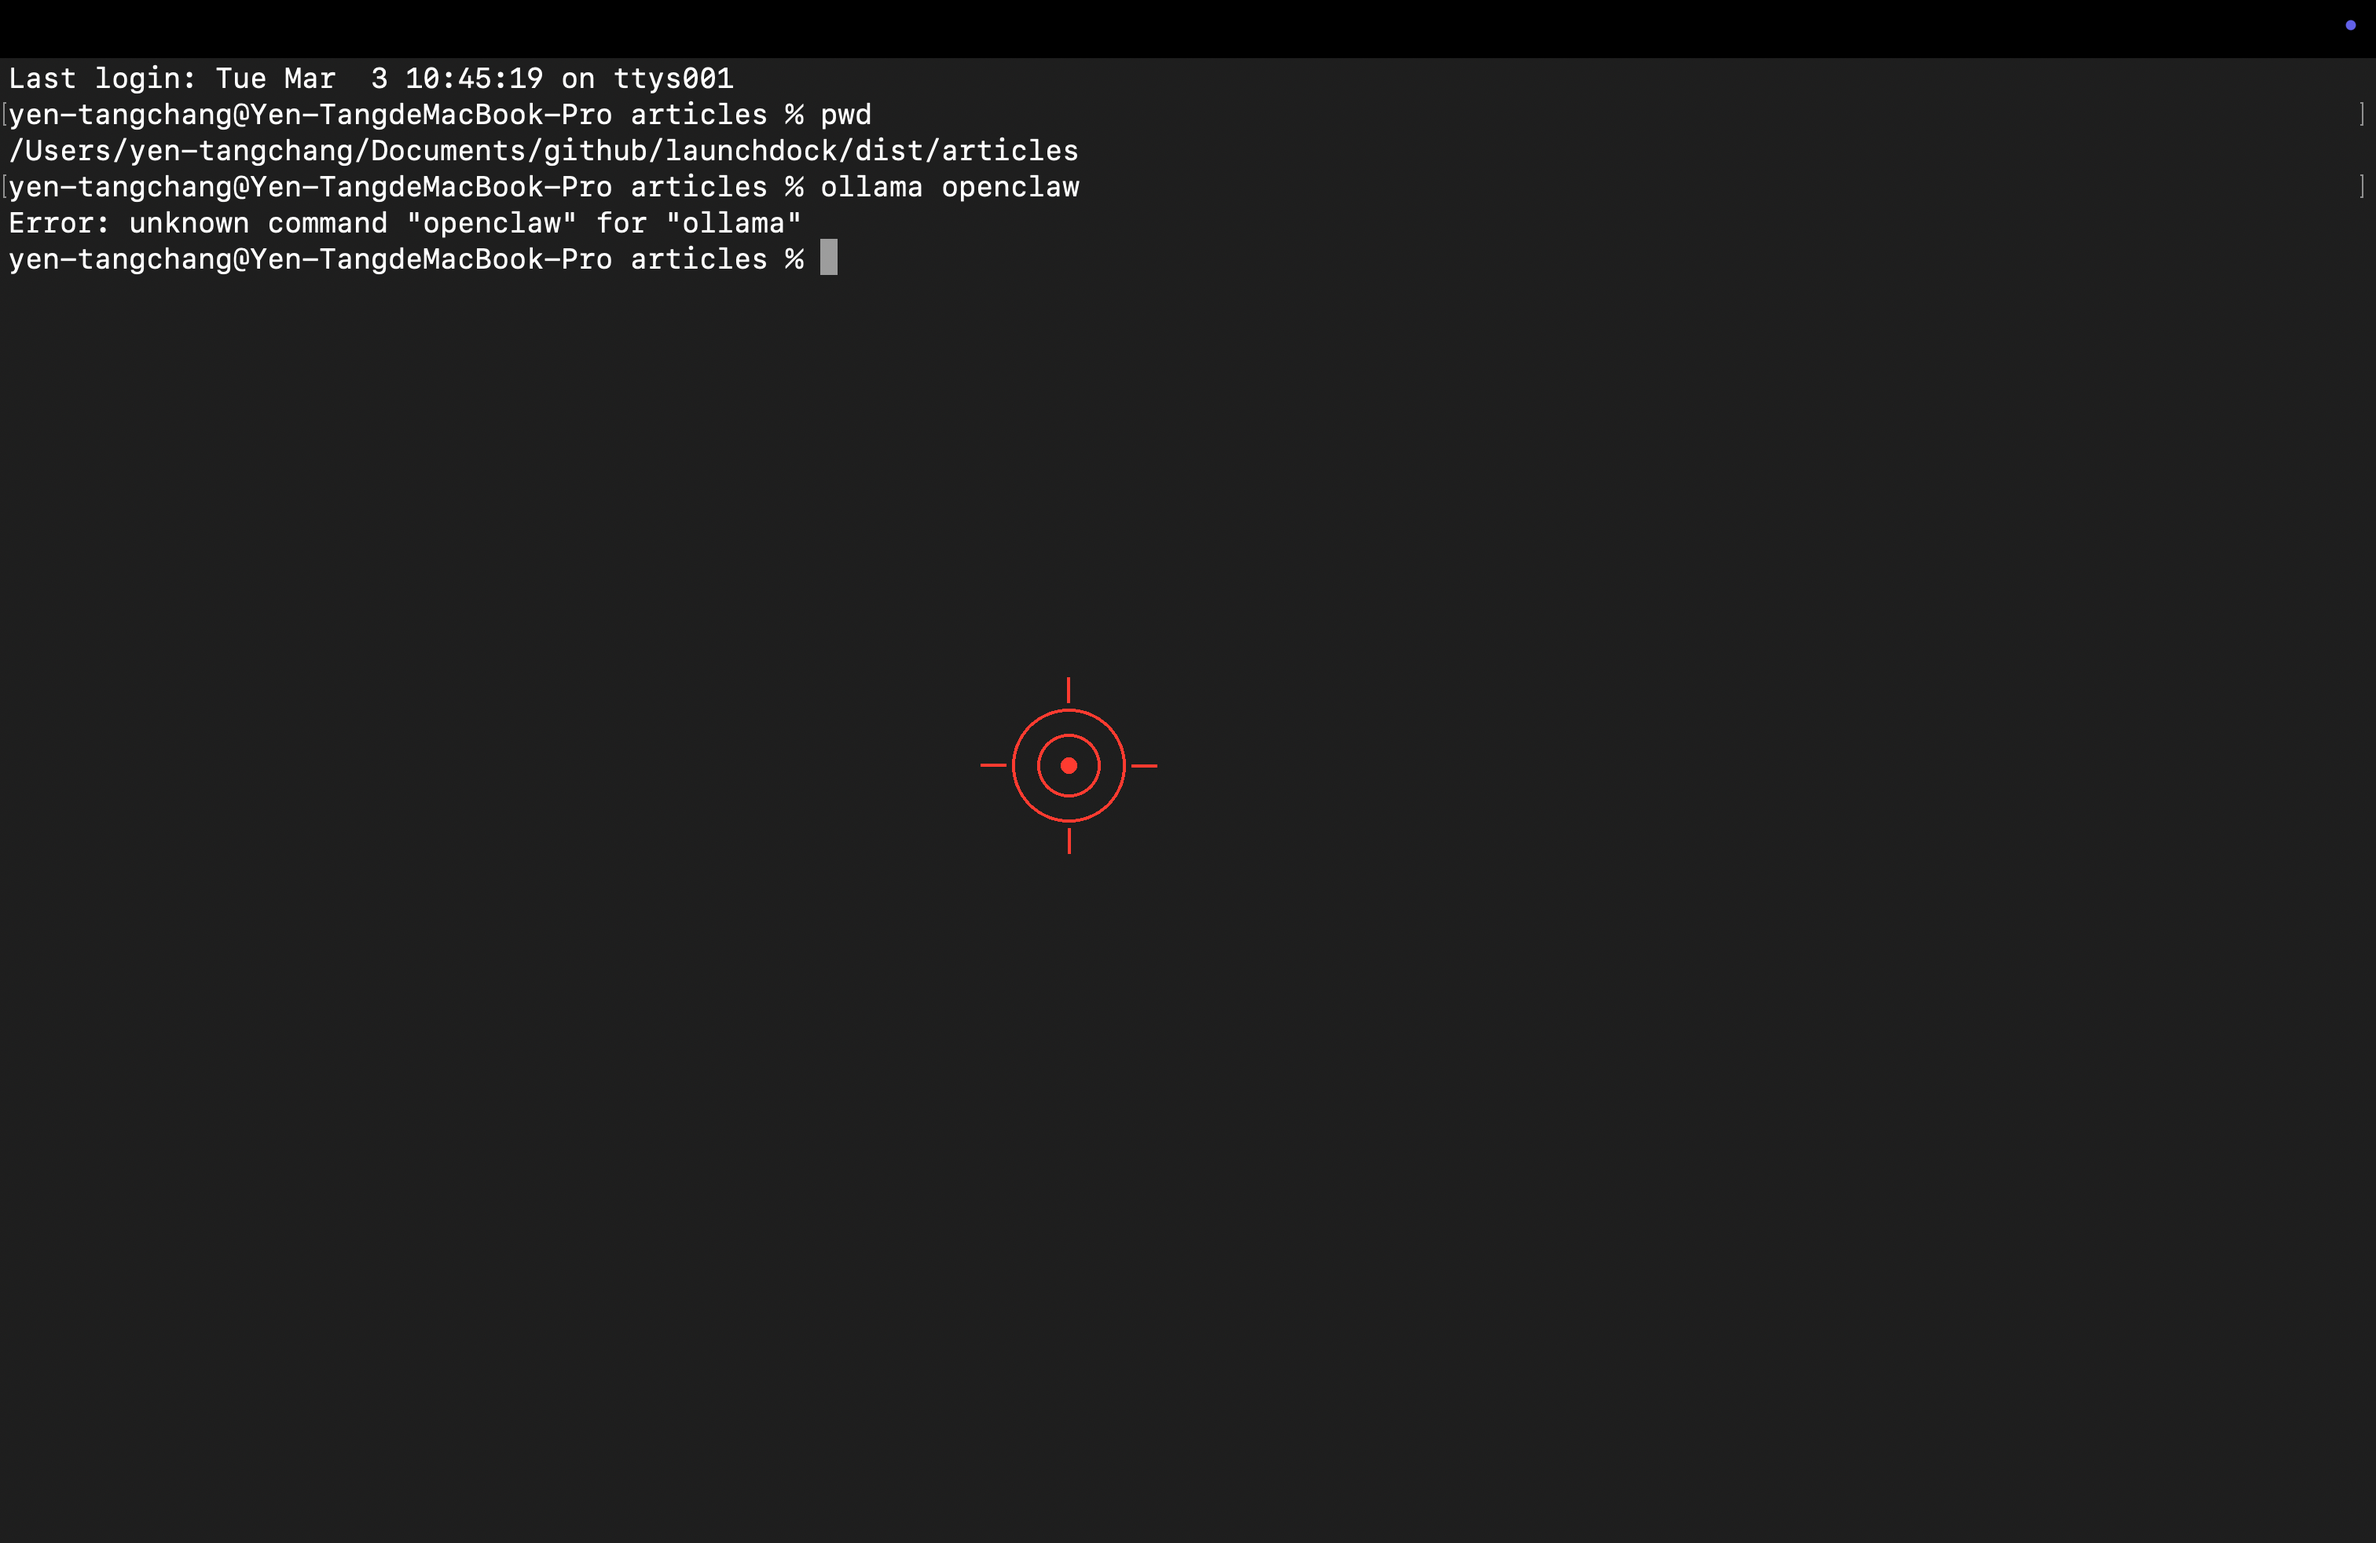
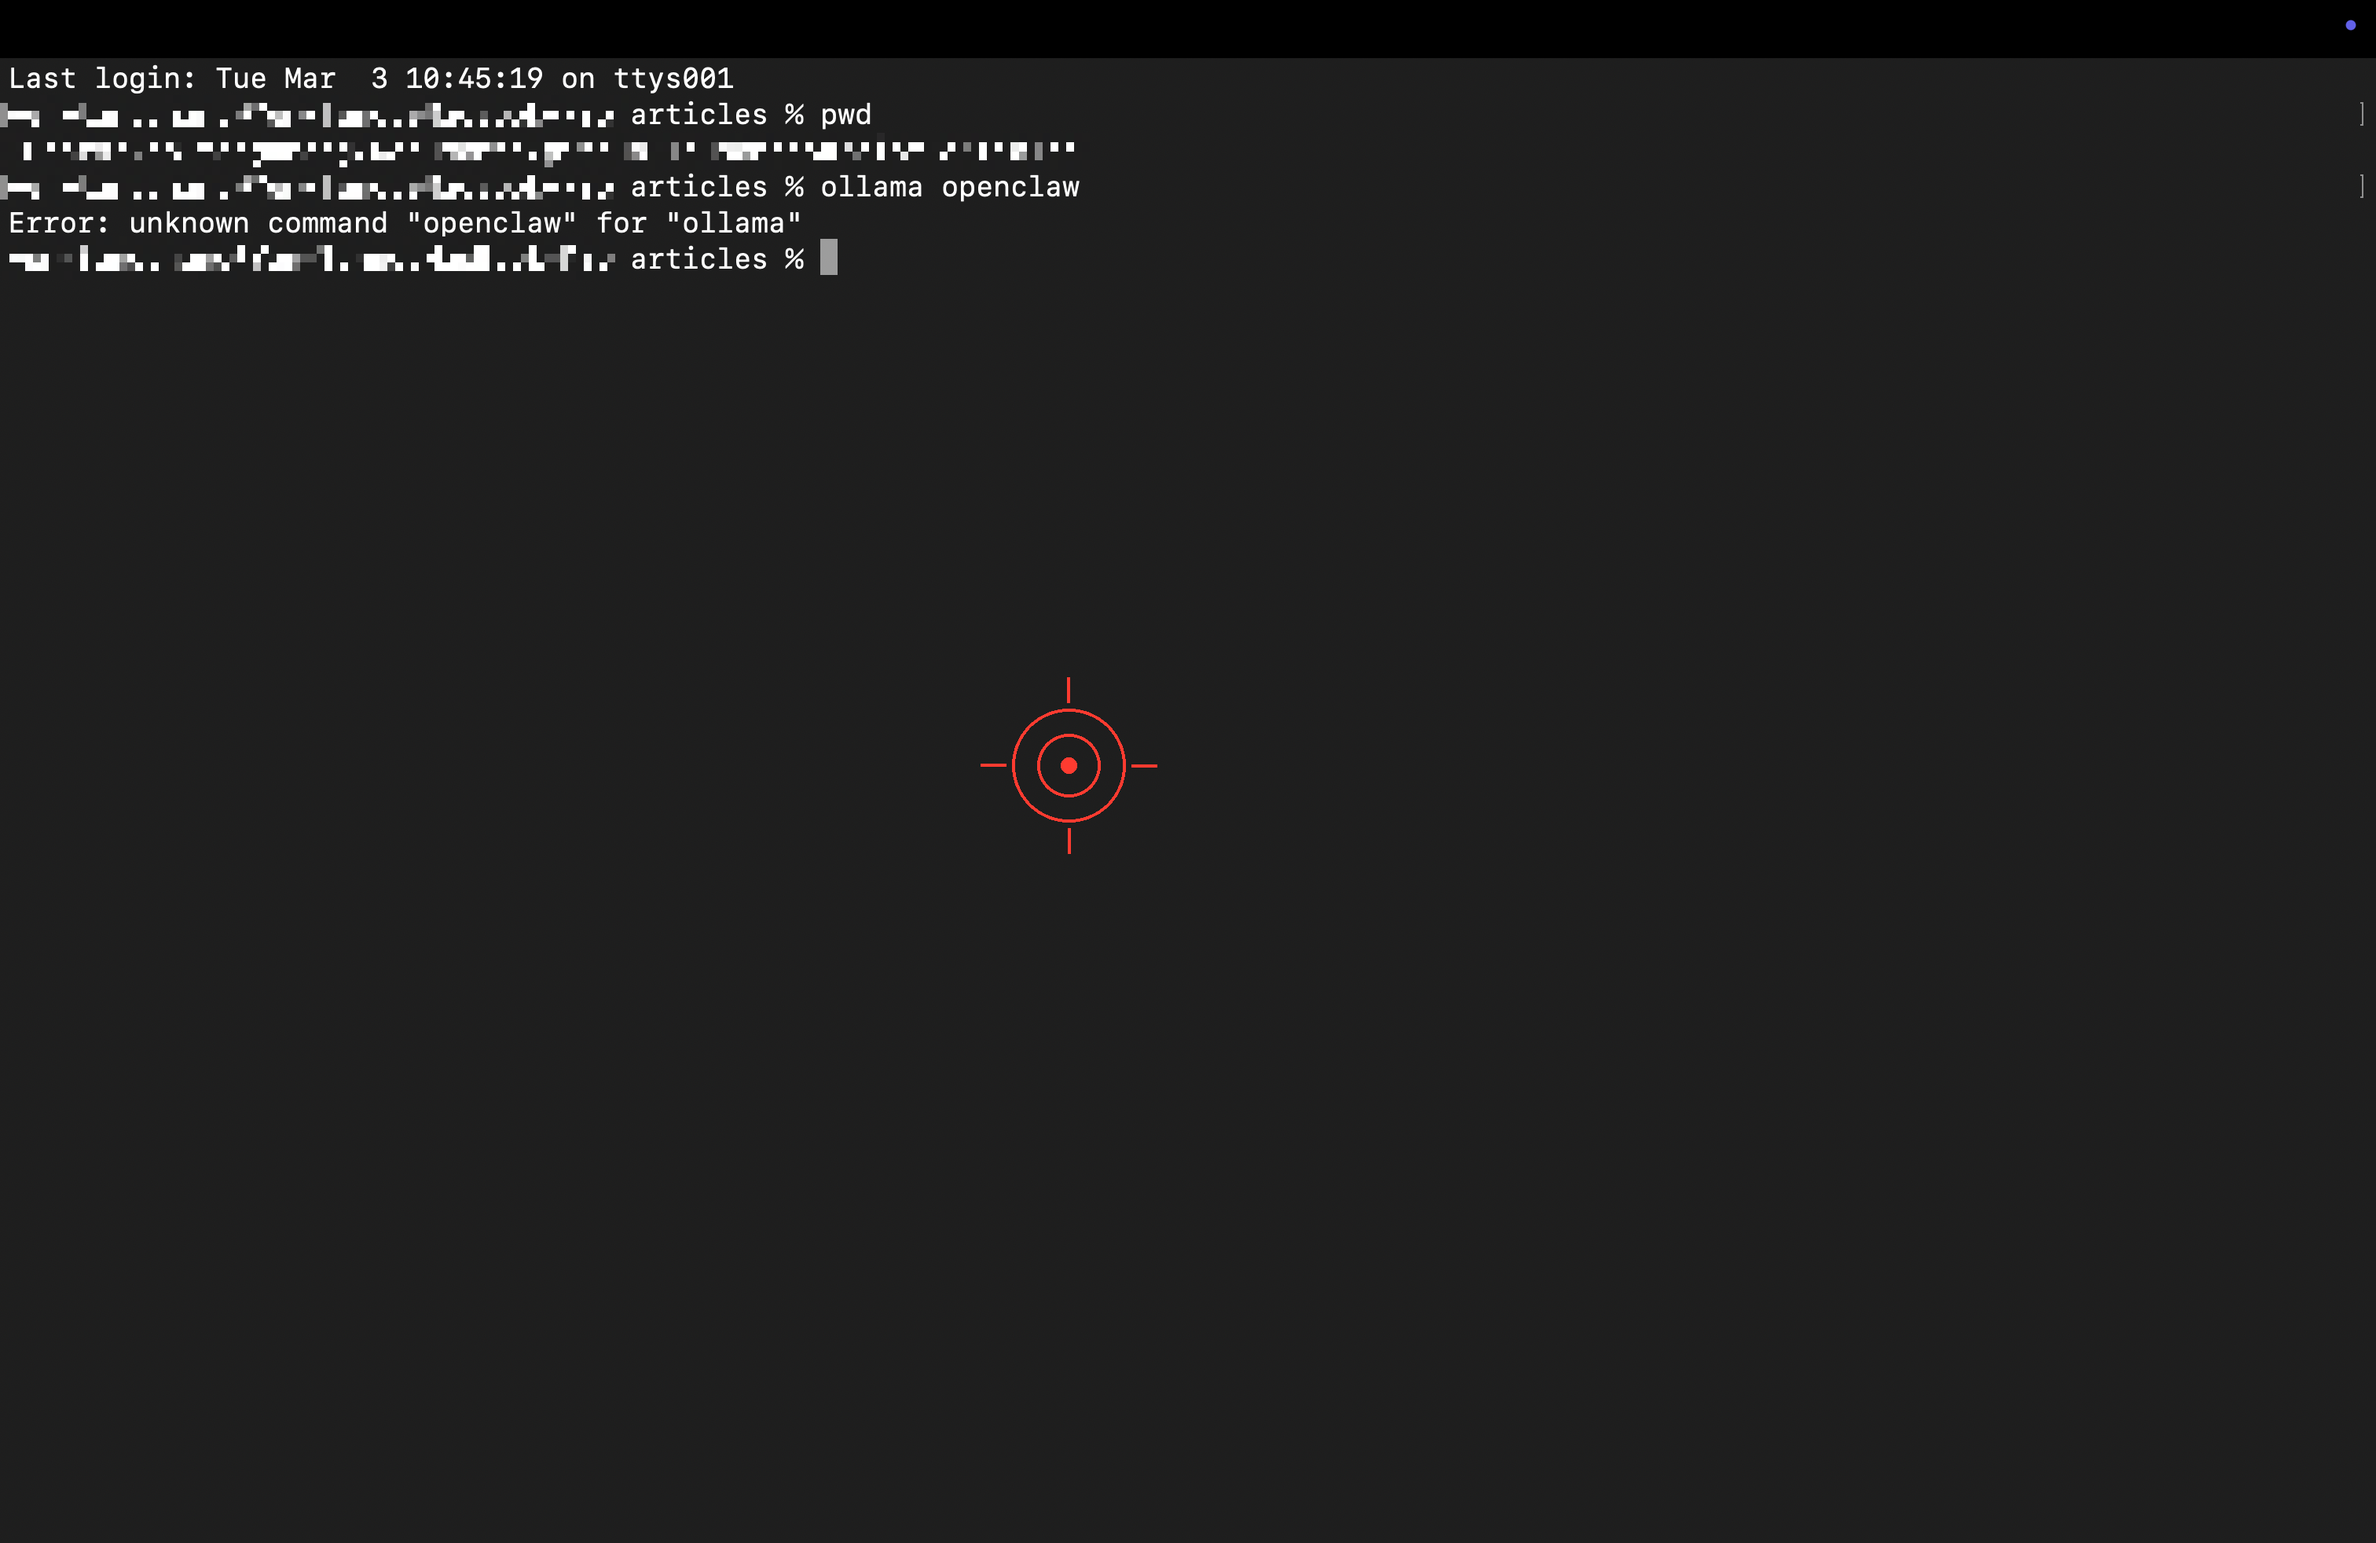
ollama-openclaw: 遮蔽圖片敏感資訊 + 更新雲端模型推薦說明

Changed region(s): [[0.0, 0.0621, 0.4663, 0.1242], [0.0, 0.1553, 0.2487, 0.1864]]

diff --git a/src/content/articles/ollama-openclaw.md b/src/content/articles/ollama-openclaw.md
@@ -144,9 +144,11 @@ ollama launch openclaw
 >
 > | 模型 | 特色 |
 > |------|------|
-> | `kimi-k2.5` | 1T 參數，Agent 任務能力最強 |
-> | `minimax-m2.5` | 最新版，編程與生產力任務 |
+> | `minimax-m2.5` | 🥇 **實測推薦**：工具呼叫能力最佳，Agent 任務表現優異 |
+> | `kimi-k2.5` | 1T 參數，對話品質強 |
 > | `glm-4.7` | 通用型，穩定可靠 |
+>
+> **不過要說明的是**：以上模型用來「試玩龍蝦、感受功能」都沒問題，但如果你希望**真正導入日常工作流程、交辦重要任務**，還是建議換用 Claude、GPT-4o 等主流商業模型——穩定性、指令遵循能力和工具使用的可靠度，目前仍有明顯差距。Ollama 免費額度很適合入門體驗，正式工作再升級。
 
 
 ![macOS 安全性設定允許 Node](/images/articles/ollama-openclaw/macos-security-allow.png)
